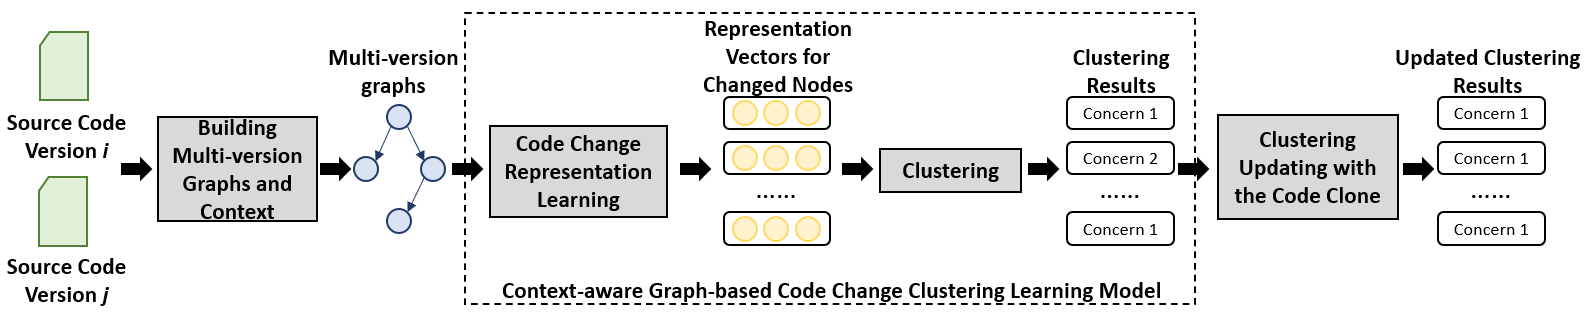
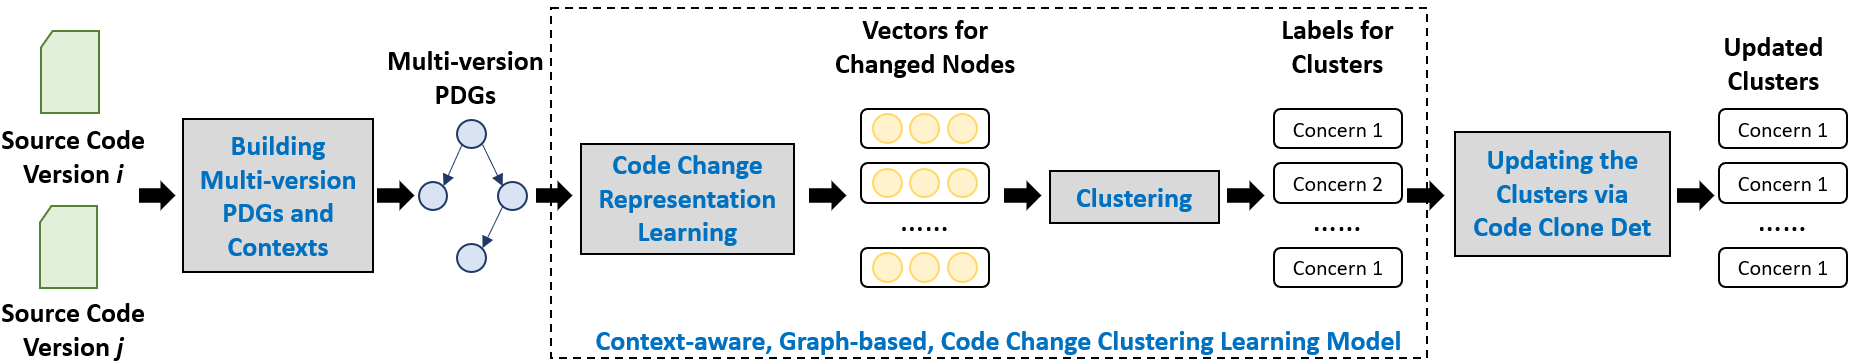
done revising overview and concepts

diff --git a/sections/overview.tex b/sections/overview.tex
@@ -109,10 +109,10 @@ code to determine the changed and unchanged nodes for the
 statements. The added nodes are kept in $\delta$-PDG$^{i,j}$ with the
 labels $j$ as they appear in the newer version $j$. We also retain the
 deleted nodes and use the label $i$ for them. The unchanged nodes
-between versions are matched by using string similarity among the
+between the versions are matched by using string similarity among the
 respective statements to filter the candidates and line-span proximity
 to rank them. When considering the edge changes, we back-propagate the
-delete nodes to edges flowing into them. We also add all unmatched
+delete nodes to the edges flowing into them. We also add all unmatched
 edges in the newer version $j$ to the multi-version PDG$^{i,j}$ as the
 edges relevant to the added nodes. More details on building
 $\delta$-PDG$^{i,j}$ can be found in~\cite{flexeme-fse20}.
@@ -132,27 +132,28 @@ the changed nodes and corresponding contexts in {\mvpdg}. To achieve
 that, {\tool} first learns to construct the {\bf contextualized
   embeddings} (vectors) to represent the code changes via our novel
 {\bf context-aware, graph-based code change representation learning
-  model}. To construct the contextualized embeddings, we leverage an
-advanced Graph-based Convolution Network (GCN)~\cite{yi} that can deal
-with the nodes with different labels to learn the representation
-vector $v$ for each node $n$ in the graph. For each changed node
-$n_c$, {\tool} collects the vectors for the un-changed nodes in the
-context for $n_c$ into a matrix. It then uses a fully connected layer
-to convert the matrix into a vector $v_{ctx}$ to encode the contextual
-information for the changed node $n_c$. The context vector $v_{ctx}$
-is then used as {\em a weight to represent the impact of context on
-  the learning to produce the final vector representation (embedding)
-  $v'_c$ for the changed node $n_c$}. To compute the final embeding
-for the changed node $n_c$, we perform cross-product between the
-vector $v_c$ of $n_c$ and the context vector $v_{ctx}$.
+  model}. In that model, to build the contextualized embeddings, we
+leverage an advanced Graph-based Convolution Network (GCN)~\cite{yi}
+that can deal with the nodes with different labels to learn the
+representation vector $v$ for each node $n$ in the graph. For each
+changed node $n_c$, {\tool} collects the vectors for the un-changed
+nodes in the context for $n_c$ into a matrix. It uses a fully
+connected layer to convert the matrix into a vector $v_{ctx}$ to
+encode the contextual information for the changed node $n_c$. The
+context vector $v_{ctx}$ is then used as {\em a weight to represent
+  the impact of context on the learning to produce the final vector
+  representation (embedding) $v'_c$ for the changed node $n_c$}. To
+compute the final embeding for the changed node $n_c$, we perform
+cross-product between the vector $v_c$ of $n_c$ and the context vector
+$v_{ctx}$.
 
 
 %By having the multi-version PDG$^{i,j}$ as the input, \tool firstly uses an advanced GCN model \cite{} that can deal with the nodes with different labels to learn the representation vectors $v_p$ for each node $n_p$ in the graph. For each changed node $n_c$ in $n_p$, \tool collects all unchanged node representation vectors in the context as a matrix. It then uses a fully connected layer to convert it to a vector $v_pc$ to represent all context information for the changed node $n_p$. Next, \tool generates the final representation vector $v'_p$ for changed node $n_p$ by using the cross product between $v_p$ and $v_pc$.
 
 %With the representation vector $v'_p$ for all changed nodes $n_p$, \tool uses the agglomerative clustering algorithm to cluster the changed nodes into different concerns. Because the number of concerns in the real world commits is not known for \tool, \tool uses a trainable threshold for the linkage when merging the clusters. The output of this step is the clustering results $C$ from the clusters for all changed nodes in the multi-version PDG$^{i,j}$.
 
-With the contextualized embeddings built for all the changed
-nodes in {\mvpdg}, our code change clustering learning model uses the
+With the contextualized embeddings built for all the changed nodes in
+{\mvpdg}, our {\bf code change clustering learning model} uses the
 agglomerative clustering algorithm to cluster the changed nodes
 represented by their embeddings into the clusters for different
 concerns. During predicting, the number of clusters is unknown. Thus,
@@ -161,8 +162,22 @@ clusters into a larger one. The output of this step is the clusters
 for all the changed nodes in {\mvpdg}. During training, we know the
 clusters of the changed nodes from the training data. The trainable
 parameters of the model and the trainable threshold are computed over
-many iterations in training as the computed cluster labels for the
-changed nodes are compared against the true labels.
+many iterations in training as the computed clusters for the
+changed nodes are compared against the correct clusters.
+
+\noindent {\bf Training corpus.} To train our clustering
+learning model, we need to have a corpus of the past commits that were
+clustered/un-tangled into multiple clusters for different concerns. We
+reuse the data collection methodology by Herzig {\em et
+  al.}~\cite{kim-emse16}, which was lated used by Partachi {\em et
+  al.}~\cite{flexeme-fse20} in Flexeme, to build the artificial corpus
+of tangled commits that mimic the way of a developer committing
+multiple consecutive work units as a single patch. Because the
+methodology is to compose the tangled commits from the atomic ones
+that were mined from the repositories, we automatically have the
+correct clusters of atomic changes in the commits for training.
+
+
 
 %1. explain how to build the training data
 %2. explain the sharing between training and predicting
@@ -170,6 +185,26 @@ changed nodes are compared against the true labels.
 
 \subsubsection{Step 3. Clustering Updating with the Code Clone}
 
-After having the clustering results $C$ from step 2, in this step, we use the existing state-of-the-art code clone tool \cite{} to detect if there is a code clone between the changed statements $Stmt_m$ and $Stmt_n$ in the multi-version PDG$^{i,j}$. If so, we check the clustering results for $Stmt_m$ and $Stmt_n$ in $C$. If they are clustered to different concerns, \tool updates the clustering results for $Stmt_m$ and $Stmt_n$ to keep them in the same concern based on the code clone results. After going through all changed statements pairs $Stmt_m$ and $Stmt_n$ with this process, \tool has the final clustering results $C'$ for each changed statement between the version $i$ and $j$.
+After having the resulting clusters from step 2, we use a code clone
+detection tool to detect if there is a cloned statement $s'_m$ of a
+changed statement $s_m$ in the multi-version {\mvpdg}. If so, we check
+the clusters containing $s_m$ and $s'_m$. If they are different,
+we merge those clusters for one concern. After iterating over
+all changed statement $s_m$, we have the final resulting clusters.
 
+%$Stmt_m$ and $Stmt_n$ in the multi-version PDG$^{i,j}$. If so, we
+%check the clustering results for $Stmt_m$ and $Stmt_n$ in $C$. If they
+%are clustered to different concerns, \tool updates the clustering
+%results for $Stmt_m$ and $Stmt_n$ to keep them in the same concern
+%based on the code clone results. After going through all changed
+%statements pairs $Stmt_m$ and $Stmt_n$ with this process, \tool has
+%the final clustering results $C'$ for each changed statement between
+%the version $i$ and $j$.
+
+All the steps in Figure~\ref{fig:overview} are shared between the
+training and predicting processes. The key difference is that in
+training, the labels w.r.t. the clusters/concerns (e.g., concern 1,
+concern 2, etc.) for the changed statements are known, while in
+predicting, {\tool} will predict the labels and finally update the
+clusters via code clone checking process.
 
